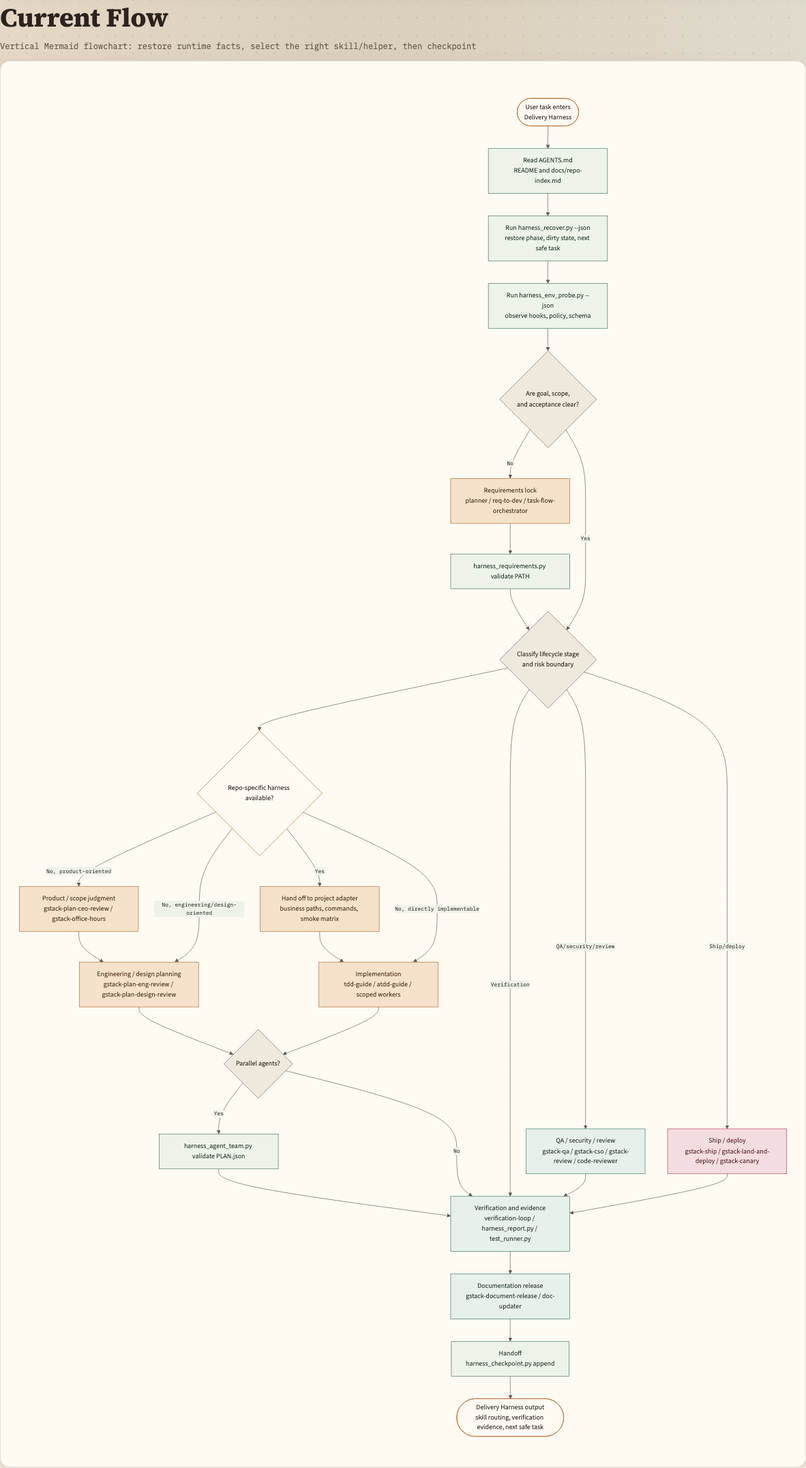
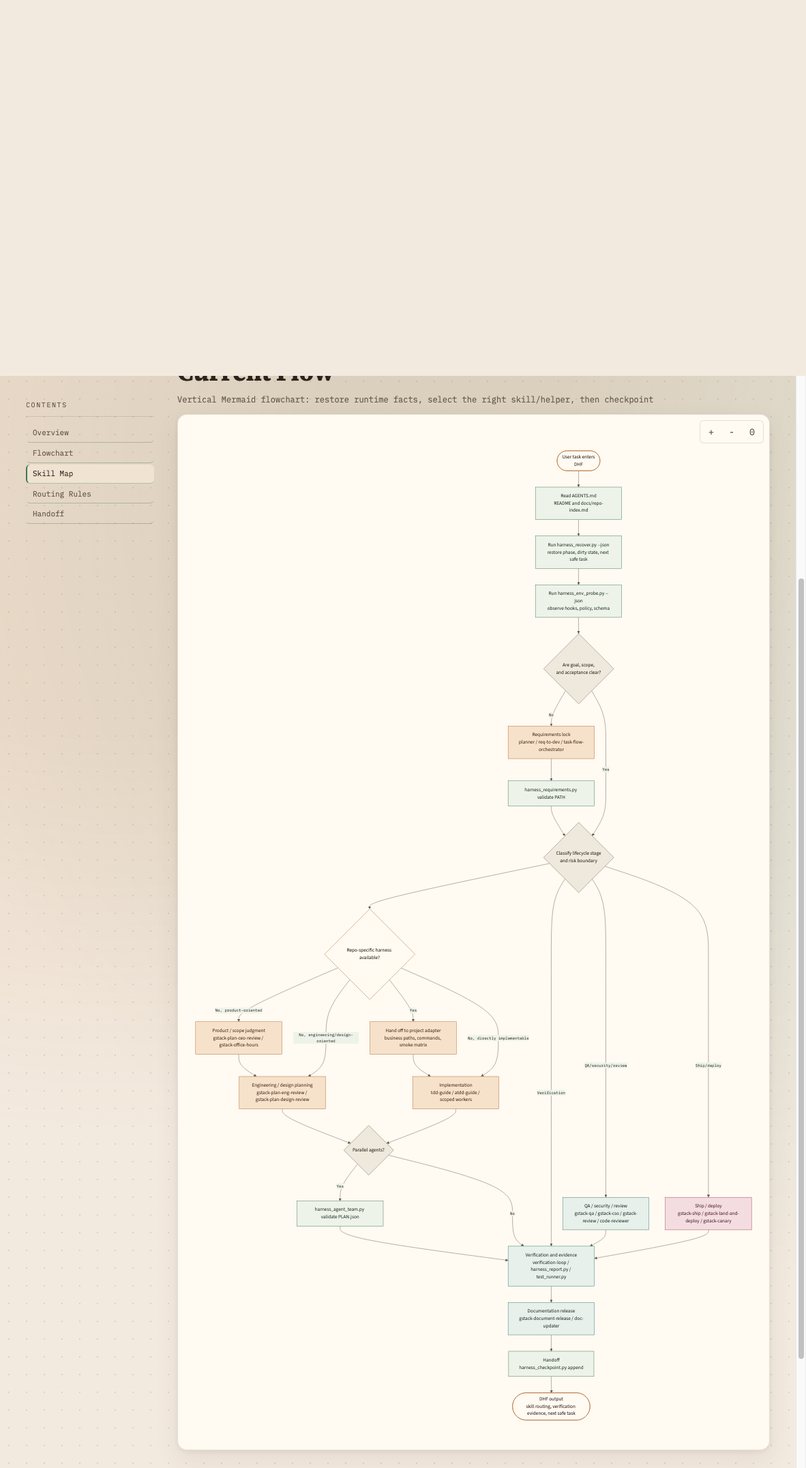
docs: rename delivery harness framework

diff --git a/docs/delivery-harness-beginner-guide-cn.html b/docs/delivery-harness-beginner-guide-cn.html
@@ -3,7 +3,7 @@
 <head>
   <meta charset="UTF-8">
   <meta name="viewport" content="width=device-width, initial-scale=1.0">
-  <title>Delivery Harness 新手指南</title>
+  <title>Delivery Harness Framework (DHF) 新手指南</title>
   <link rel="preconnect" href="https://fonts.googleapis.com">
   <link rel="preconnect" href="https://fonts.gstatic.com" crossorigin>
   <link href="https://fonts.googleapis.com/css2?family=Fraunces:opsz,wght@9..144,650;9..144,760&family=IBM+Plex+Mono:wght@400;500;600&family=Atkinson+Hyperlegible:wght@400;700&display=swap" rel="stylesheet">
@@ -511,11 +511,11 @@
 
     <main class="main">
       <section class="hero" id="what" style="--i:0">
-        <div class="eyebrow">Delivery Harness / Beginner Guide</div>
-        <h1>Delivery Harness 是 prompts 和 proof 之间的系统。</h1>
+        <div class="eyebrow">Delivery Harness Framework / DHF Beginner Guide</div>
+        <h1>Delivery Harness Framework (DHF) 是 prompts 和 proof 之间的系统。</h1>
         <p class="lead">它不是一个更聪明的 prompt，也不是单个 agent。它是一套工作框架，让 AI 工程任务先恢复事实，再锁定范围，按阶段路由执行，最后用新鲜证据证明完成。</p>
         <div class="definition">
-          一句话：<strong>Delivery Harness 把“帮我做这个”变成“已读哪些事实、当前处于哪个阶段、谁负责执行、怎样验证、下一次如何接手”。</strong>
+          一句话：<strong>DHF 把“帮我做这个”变成“已读哪些事实、当前处于哪个阶段、谁负责执行、怎样验证、下一次如何接手”。</strong>
         </div>
       </section>
 
@@ -541,7 +541,7 @@
           <article class="card verify">
             <div class="label">Problem 04</div>
             <h3>“完成”不可审计</h3>
-            <p>Delivery Harness 要求每个完成声明带上 command、exit_code、key_output、timestamp。</p>
+            <p>DHF 要求每个完成声明带上 command、exit_code、key_output、timestamp。</p>
           </article>
           <article class="card handoff">
             <div class="label">Problem 05</div>
@@ -558,7 +558,7 @@
 
       <section class="section" id="layers" style="--i:2">
         <h2>三层架构</h2>
-        <div class="section-note">这是理解 Delivery Harness 的最短路径：runtime 给边界，router 选路线，specialists 做具体工作。</div>
+        <div class="section-note">这是理解 DHF 的最短路径：runtime 给边界，router 选路线，specialists 做具体工作。</div>
         <div class="grid">
           <article class="card recover">
             <div class="label">Layer 01</div>
@@ -594,7 +594,7 @@
         <div class="steps" style="margin-top:18px">
           <div class="step">
             <div class="step-num">01</div>
-            <div><h3>如果任务不明确，不要开始实现</h3><p>先把模糊请求转成可验证目标。Delivery Harness 把“需求澄清”看作正式工程阶段，而不是聊天前奏。</p></div>
+            <div><h3>如果任务不明确，不要开始实现</h3><p>先把模糊请求转成可验证目标。DHF 把“需求澄清”看作正式工程阶段，而不是聊天前奏。</p></div>
           </div>
           <div class="step">
             <div class="step-num">02</div>
@@ -614,7 +614,7 @@
           <div class="quote">“帮我把这个功能做好，然后发出去。”</div>
           <div class="steps">
             <div class="step"><div class="step-num">A</div><div><h3>没有 Harness</h3><p>agent 可能直接改代码、猜测范围、跳过需求、最后用“看起来可以”作为完成依据。</p></div></div>
-            <div class="step"><div class="step-num">B</div><div><h3>使用 Delivery Harness</h3><p>先恢复 repo 状态，判断需求是否清晰；若不清晰，进入 requirements；若清晰，路由到 planning 或 development。</p></div></div>
+            <div class="step"><div class="step-num">B</div><div><h3>使用 DHF</h3><p>先恢复 repo 状态，判断需求是否清晰；若不清晰，进入 requirements；若清晰，路由到 planning 或 development。</p></div></div>
             <div class="step"><div class="step-num">C</div><div><h3>交付结果</h3><p>输出包含阶段判断、已读来源、执行路径、验证命令、退出码、关键输出、时间戳和下一步安全任务。</p></div></div>
           </div>
         </div>
@@ -648,13 +648,13 @@
       <section class="section" id="next" style="--i:6">
         <h2>下一步怎么读</h2>
         <div class="links">
-          <a class="link-card" href="./index.html"><b>公共入口</b><span>从这里进入全部 Delivery Harness 公开页面。</span></a>
+          <a class="link-card" href="./index.html"><b>公共入口</b><span>从这里进入全部 DHF 公开页面。</span></a>
           <a class="link-card" href="./project-lifecycle-harness-flow-cn.html"><b>生命周期主流程图</b><span>看任务从进入到交接的完整路径。</span></a>
           <a class="link-card" href="./project-lifecycle-harness-flow-skills-zh-status-style.html"><b>技能路由图</b><span>看每个阶段由哪个 skill 或 helper 接管。</span></a>
           <a class="link-card" href="./LIFECYCLE_SKILL_ROUTING.md"><b>文字规范</b><span>查 workflow、stage map、helper 和 evidence standard。</span></a>
         </div>
         <div class="footer">
-          生成来源：<code>docs/LIFECYCLE_SKILL_ROUTING.md</code>、<code>docs/HARNESS_RUNTIME.md</code>、<code>docs/AGENT_HARNESS_STATUS.md</code>。页面目标：让 agentic engineering beginner 先理解 Delivery Harness 在做什么，再进入详细流程图。
+          生成来源：<code>docs/LIFECYCLE_SKILL_ROUTING.md</code>、<code>docs/HARNESS_RUNTIME.md</code>、<code>docs/AGENT_HARNESS_STATUS.md</code>。页面目标：让 agentic engineering beginner 先理解 DHF 在做什么，再进入详细流程图。
         </div>
       </section>
     </main>

diff --git a/docs/project-lifecycle-harness-flow-skills-en-status-style.html b/docs/project-lifecycle-harness-flow-skills-en-status-style.html
@@ -3,7 +3,7 @@
 <head>
   <meta charset="UTF-8">
   <meta name="viewport" content="width=device-width, initial-scale=1.0">
-  <title>MyCodexEnv Delivery Harness Skill Routing - Runtime Status Style</title>
+  <title>MyCodexEnv Delivery Harness Framework (DHF) Skill Routing - Runtime Status Style</title>
   <link rel="preconnect" href="https://fonts.googleapis.com">
   <link rel="preconnect" href="https://fonts.gstatic.com" crossorigin>
   <link href="https://fonts.googleapis.com/css2?family=Atkinson+Hyperlegible:wght@400;700&family=Fraunces:opsz,wght@9..144,600;9..144,750&family=IBM+Plex+Mono:wght@400;500;600&display=swap" rel="stylesheet">
@@ -432,10 +432,10 @@
 
     <main class="main">
       <section class="hero" id="overview">
-        <div class="eyebrow">Delivery Harness / Current Skill Routing</div>
-        <h1>Which skill powers each Delivery Harness stage.</h1>
+        <div class="eyebrow">Delivery Harness Framework / DHF Skill Routing</div>
+        <h1>Which skill powers each DHF stage.</h1>
         <p class="lead">
-          MyCodexEnv uses <code>project-lifecycle-harness</code> as the Delivery Harness entry point. It restores runtime facts, probes the Codex environment, identifies the lifecycle stage, and routes the work to a repo-specific harness, a gstack specialist skill, local development and verification skills, or deterministic runtime helpers. Helpers provide a machine-checkable execution layer; skills provide cognitive orchestration.
+          MyCodexEnv uses <code>project-lifecycle-harness</code> as the Delivery Harness Framework (DHF) entry point. DHF restores runtime facts, probes the Codex environment, identifies the lifecycle stage, and routes the work to a repo-specific harness, a gstack specialist skill, local development and verification skills, or deterministic runtime helpers. Helpers provide a machine-checkable execution layer; skills provide cognitive orchestration.
         </p>
         <div class="kpis">
           <div class="kpi"><strong>8</strong><span>standard lifecycle stages</span></div>
@@ -457,7 +457,7 @@
           <div class="brand-watermark">ShipAI.ca</div>
           <pre class="mermaid">
 flowchart TD
-  Start(["User task enters<br/>Delivery Harness"])
+  Start(["User task enters<br/>DHF"])
   AGENTS["Read AGENTS.md<br/>README and docs/repo-index.md"]
   Recover["Run harness_recover.py --json<br/>restore phase, dirty state, next safe task"]
   Env["Run harness_env_probe.py --json<br/>observe hooks, policy, schema"]
@@ -477,7 +477,7 @@ flowchart TD
   Ship["Ship / deploy<br/>gstack-ship / gstack-land-and-deploy / gstack-canary"]
   Docs["Documentation release<br/>gstack-document-release / doc-updater"]
   Handoff["Handoff<br/>harness_checkpoint.py append"]
-  Done(["Delivery Harness output<br/>skill routing, verification evidence, next safe task"])
+  Done(["DHF output<br/>skill routing, verification evidence, next safe task"])
 
   Start --> AGENTS --> Recover --> Env --> NeedsReq
   NeedsReq -- "No" --> Req --> ReqVal --> Classify
@@ -622,7 +622,7 @@ flowchart TD
           <a href="./delivery-harness-beginner-guide-cn.html"><code>docs/delivery-harness-beginner-guide-cn.html</code></a> is the Chinese beginner guide;
           <a href="./LIFECYCLE_SKILL_ROUTING.md"><code>docs/LIFECYCLE_SKILL_ROUTING.md</code></a> is the written lifecycle and skill/helper routing guide;
           <a href="./project-lifecycle-harness-flow-cn.html"><code>docs/project-lifecycle-harness-flow-cn.html</code></a> is the vertical main flowchart;
-          <a href="./project-lifecycle-harness-flow-skills-zh-status-style.html"><code>docs/project-lifecycle-harness-flow-skills-zh-status-style.html</code></a> is the current Chinese Delivery Harness skill/helper routing guide;
+          <a href="./project-lifecycle-harness-flow-skills-zh-status-style.html"><code>docs/project-lifecycle-harness-flow-skills-zh-status-style.html</code></a> is the current Chinese Delivery Harness Framework skill/helper routing guide;
           <a href="./HARNESS_RUNTIME.md"><code>docs/HARNESS_RUNTIME.md</code></a> is the runtime contract;
           <a href="./AGENT_HARNESS_STATUS.md"><code>docs/AGENT_HARNESS_STATUS.md</code></a> is the Harness module status;
           <a href="./CODEX_ENV_REPRODUCTION.md"><code>docs/CODEX_ENV_REPRODUCTION.md</code></a> documents environment reproduction;

diff --git a/docs/project-lifecycle-harness-flow-skills-en.html b/docs/project-lifecycle-harness-flow-skills-en.html
@@ -3,7 +3,7 @@
 <head>
   <meta charset="UTF-8">
   <meta name="viewport" content="width=device-width, initial-scale=1.0">
-  <title>MyCodexEnv Delivery Harness Skill Routing</title>
+  <title>MyCodexEnv Delivery Harness Framework (DHF) Skill Routing</title>
   <link rel="preconnect" href="https://fonts.googleapis.com">
   <link rel="preconnect" href="https://fonts.gstatic.com" crossorigin>
   <link href="https://fonts.googleapis.com/css2?family=IBM+Plex+Mono:wght@400;500;600&family=Source+Sans+3:wght@400;500;600;700&family=Source+Serif+4:wght@500;600;700&display=swap" rel="stylesheet">
@@ -410,10 +410,10 @@
 
     <main class="main">
       <section class="hero" id="overview">
-        <div class="eyebrow">Delivery Harness / Current Skill Routing</div>
-        <h1>Which skill powers each Delivery Harness stage.</h1>
+        <div class="eyebrow">Delivery Harness Framework / DHF Skill Routing</div>
+        <h1>Which skill powers each DHF stage.</h1>
         <p class="lead">
-          MyCodexEnv uses <code>project-lifecycle-harness</code> as the Delivery Harness entry point. It restores runtime facts, probes the Codex environment, identifies the lifecycle stage, and routes the work to a repo-specific harness, a gstack specialist skill, local development and verification skills, or deterministic runtime helpers. Helpers provide a machine-checkable execution layer; skills provide cognitive orchestration.
+          MyCodexEnv uses <code>project-lifecycle-harness</code> as the Delivery Harness Framework (DHF) entry point. DHF restores runtime facts, probes the Codex environment, identifies the lifecycle stage, and routes the work to a repo-specific harness, a gstack specialist skill, local development and verification skills, or deterministic runtime helpers. Helpers provide a machine-checkable execution layer; skills provide cognitive orchestration.
         </p>
         <div class="kpis">
           <div class="kpi"><strong>8</strong><span>standard lifecycle stages</span></div>
@@ -434,7 +434,7 @@
           </div>
           <pre class="mermaid">
 flowchart TD
-  Start(["User task enters<br/>Delivery Harness"])
+  Start(["User task enters<br/>DHF"])
   AGENTS["Read AGENTS.md<br/>README and docs/repo-index.md"]
   Recover["Run harness_recover.py --json<br/>restore phase, dirty state, next safe task"]
   Env["Run harness_env_probe.py --json<br/>observe hooks, policy, schema"]
@@ -454,7 +454,7 @@ flowchart TD
   Ship["Ship / deploy<br/>gstack-ship / gstack-land-and-deploy / gstack-canary"]
   Docs["Documentation release<br/>gstack-document-release / doc-updater"]
   Handoff["Handoff<br/>harness_checkpoint.py append"]
-  Done(["Delivery Harness output<br/>skill routing, verification evidence, next safe task"])
+  Done(["DHF output<br/>skill routing, verification evidence, next safe task"])
 
   Start --> AGENTS --> Recover --> Env --> NeedsReq
   NeedsReq -- "No" --> Req --> ReqVal --> Classify
@@ -599,7 +599,7 @@ flowchart TD
           <a href="./delivery-harness-beginner-guide-cn.html"><code>docs/delivery-harness-beginner-guide-cn.html</code></a> is the Chinese beginner guide;
           <a href="./LIFECYCLE_SKILL_ROUTING.md"><code>docs/LIFECYCLE_SKILL_ROUTING.md</code></a> is the written lifecycle and skill/helper routing guide;
           <a href="./project-lifecycle-harness-flow-cn.html"><code>docs/project-lifecycle-harness-flow-cn.html</code></a> is the vertical main flowchart;
-          <a href="./project-lifecycle-harness-flow-skills-zh-status-style.html"><code>docs/project-lifecycle-harness-flow-skills-zh-status-style.html</code></a> is the current Chinese Delivery Harness skill/helper routing guide;
+          <a href="./project-lifecycle-harness-flow-skills-zh-status-style.html"><code>docs/project-lifecycle-harness-flow-skills-zh-status-style.html</code></a> is the current Chinese Delivery Harness Framework skill/helper routing guide;
           <a href="./HARNESS_RUNTIME.md"><code>docs/HARNESS_RUNTIME.md</code></a> is the runtime contract;
           <a href="./AGENT_HARNESS_STATUS.md"><code>docs/AGENT_HARNESS_STATUS.md</code></a> is the Harness module status;
           <a href="./CODEX_ENV_REPRODUCTION.md"><code>docs/CODEX_ENV_REPRODUCTION.md</code></a> documents environment reproduction;

diff --git a/docs/project-lifecycle-harness-flow-skills-zh-status-style.html b/docs/project-lifecycle-harness-flow-skills-zh-status-style.html
@@ -3,7 +3,7 @@
 <head>
   <meta charset="UTF-8">
   <meta name="viewport" content="width=device-width, initial-scale=1.0">
-  <title>MyCodexEnv Delivery Harness 技能路由 - 运行时状态风格</title>
+  <title>MyCodexEnv Delivery Harness Framework (DHF) 技能路由 - 运行时状态风格</title>
   <link rel="preconnect" href="https://fonts.googleapis.com">
   <link rel="preconnect" href="https://fonts.gstatic.com" crossorigin>
   <link href="https://fonts.googleapis.com/css2?family=Atkinson+Hyperlegible:wght@400;700&family=Fraunces:opsz,wght@9..144,600;9..144,750&family=IBM+Plex+Mono:wght@400;500;600&display=swap" rel="stylesheet">
@@ -432,10 +432,10 @@
 
     <main class="main">
       <section class="hero" id="overview">
-        <div class="eyebrow">Delivery Harness / 当前技能路由</div>
-        <h1>每个 Delivery Harness 阶段由哪个技能驱动。</h1>
+        <div class="eyebrow">Delivery Harness Framework / DHF 当前技能路由</div>
+        <h1>每个 DHF 阶段由哪个技能驱动。</h1>
         <p class="lead">
-          MyCodexEnv 使用 <code>project-lifecycle-harness</code> 作为 Delivery Harness 的入口。它先恢复运行时事实，探测 Codex 环境，识别当前生命周期阶段，再把任务路由到仓库专用 harness、gstack 专家技能、本地开发与验证技能，或确定性的运行时辅助脚本。辅助脚本提供机器可检查的执行层；技能负责认知编排。
+          MyCodexEnv 使用 <code>project-lifecycle-harness</code> 作为 Delivery Harness Framework (DHF) 的入口。DHF 先恢复运行时事实，探测 Codex 环境，识别当前生命周期阶段，再把任务路由到仓库专用 harness、gstack 专家技能、本地开发与验证技能，或确定性的运行时辅助脚本。辅助脚本提供机器可检查的执行层；技能负责认知编排。
         </p>
         <div class="kpis">
           <div class="kpi"><strong>8</strong><span>标准生命周期阶段</span></div>
@@ -457,7 +457,7 @@
           <div class="brand-watermark">ShipAI.ca</div>
           <pre class="mermaid">
 flowchart TD
-  Start(["用户任务进入<br/>Delivery Harness"])
+  Start(["用户任务进入<br/>DHF"])
   AGENTS["读取 AGENTS.md<br/>README 和 docs/repo-index.md"]
   Recover["运行 harness_recover.py --json<br/>恢复阶段、脏状态、下一个安全任务"]
   Env["运行 harness_env_probe.py --json<br/>观察 hooks、策略、schema"]
@@ -477,7 +477,7 @@ flowchart TD
   Ship["发布 / 部署<br/>gstack-ship / gstack-land-and-deploy / gstack-canary"]
   Docs["文档发布<br/>gstack-document-release / doc-updater"]
   Handoff["交接<br/>harness_checkpoint.py append"]
-  Done(["Delivery Harness 输出<br/>技能路由、验证证据、下一个安全任务"])
+  Done(["DHF 输出<br/>技能路由、验证证据、下一个安全任务"])
 
   Start --> AGENTS --> Recover --> Env --> NeedsReq
   NeedsReq -- "否" --> Req --> ReqVal --> Classify

diff --git a/docs/index.html b/docs/index.html
@@ -3,7 +3,7 @@
 <head>
   <meta charset="UTF-8">
   <meta name="viewport" content="width=device-width, initial-scale=1.0">
-  <title>Delivery Harness 公共说明入口</title>
+  <title>Delivery Harness Framework (DHF) 公共说明入口</title>
   <link rel="preconnect" href="https://fonts.googleapis.com">
   <link rel="preconnect" href="https://fonts.gstatic.com" crossorigin>
   <link href="https://fonts.googleapis.com/css2?family=Fraunces:opsz,wght@9..144,650;9..144,760&family=IBM+Plex+Mono:wght@400;500;600&family=Atkinson+Hyperlegible:wght@400;700&display=swap" rel="stylesheet">
@@ -224,9 +224,9 @@
 <body>
   <main class="wrap">
     <section class="hero" style="--i:0">
-      <div class="eyebrow">Delivery Harness / Public Guide</div>
+      <div class="eyebrow">Delivery Harness Framework / DHF Public Guide</div>
       <h1>从模糊请求到可验证交付。</h1>
-      <p class="lead">这组页面解释 Delivery Harness 如何把 agentic engineering 的工作组织成事实恢复、需求锁定、路由执行、验证证据和可恢复交接。</p>
+      <p class="lead">这组页面解释 Delivery Harness Framework (DHF) 如何把 agentic engineering 的工作组织成事实恢复、需求锁定、路由执行、验证证据和可恢复交接。</p>
     </section>
 
     <nav class="strip" aria-label="快速入口" style="--i:1">
@@ -242,7 +242,7 @@
         <div>
           <div class="label">Start Here</div>
           <h2>新手先读</h2>
-          <p>用一句话定义、三层架构、五步流程、术语表和一个具体例子解释 Delivery Harness 在做什么。</p>
+          <p>用一句话定义、三层架构、五步流程、术语表和一个具体例子解释 DHF 在做什么。</p>
         </div>
         <div class="meta">适合 agentic engineering beginner</div>
       </a>
@@ -260,7 +260,7 @@
         <div>
           <div class="label">Routing</div>
           <h2>技能地图</h2>
-          <p>解释每个 Delivery Harness 阶段应由哪个 skill 或 helper 接管，以及什么时候触发。</p>
+          <p>解释每个 DHF 阶段应由哪个 skill 或 helper 接管，以及什么时候触发。</p>
         </div>
         <div class="meta">看懂 agent 如何选工具</div>
       </a>
@@ -269,7 +269,7 @@
         <div>
           <div class="label">English</div>
           <h2>英文版流程</h2>
-          <p>适合对外分享、LinkedIn 文章和英文团队协作的 Delivery Harness flow map。</p>
+          <p>适合对外分享、LinkedIn 文章和英文团队协作的 DHF flow map。</p>
         </div>
         <div class="meta">public-facing version</div>
       </a>

diff --git a/docs/project-lifecycle-harness-flow-skills.html b/docs/project-lifecycle-harness-flow-skills.html
@@ -603,7 +603,7 @@ flowchart TD
           <a href="./delivery-harness-beginner-guide-cn.html"><code>docs/delivery-harness-beginner-guide-cn.html</code></a> 是 beginner 中文入门指南；
           <a href="./LIFECYCLE_SKILL_ROUTING.md"><code>docs/LIFECYCLE_SKILL_ROUTING.md</code></a> 是生命周期和 skill/helper 路由的文字说明；
           <a href="./project-lifecycle-harness-flow-cn.html"><code>docs/project-lifecycle-harness-flow-cn.html</code></a> 是纵向主流程图；
-          <a href="./project-lifecycle-harness-flow-skills-zh-status-style.html"><code>docs/project-lifecycle-harness-flow-skills-zh-status-style.html</code></a> 是新版 Delivery Harness 技能路由图；
+          <a href="./project-lifecycle-harness-flow-skills-zh-status-style.html"><code>docs/project-lifecycle-harness-flow-skills-zh-status-style.html</code></a> 是新版 Delivery Harness Framework 技能路由图；
           <a href="./HARNESS_RUNTIME.md"><code>docs/HARNESS_RUNTIME.md</code></a> 是运行时合同；
           <a href="./AGENT_HARNESS_STATUS.md"><code>docs/AGENT_HARNESS_STATUS.md</code></a> 是 Harness 模块状态；
           <a href="./CODEX_ENV_REPRODUCTION.md"><code>docs/CODEX_ENV_REPRODUCTION.md</code></a> 是环境复现说明；

diff --git a/docs/project-lifecycle-harness-flow-cn.html b/docs/project-lifecycle-harness-flow-cn.html
@@ -739,10 +739,10 @@ flowchart TD
         <div class="panel">
           <h3>相关文档</h3>
           <ul class="check-list">
-            <li><a href="./index.html">Delivery Harness 公共页面入口</a></li>
+            <li><a href="./index.html">Delivery Harness Framework 公共页面入口</a></li>
             <li><a href="./delivery-harness-beginner-guide-cn.html">Beginner 中文入门指南</a></li>
             <li><a href="./LIFECYCLE_SKILL_ROUTING.md">生命周期与 skill/helper 路由文字说明</a></li>
-            <li><a href="./project-lifecycle-harness-flow-skills-zh-status-style.html">新版 Delivery Harness 技能路由可视化速查页</a></li>
+            <li><a href="./project-lifecycle-harness-flow-skills-zh-status-style.html">新版 Delivery Harness Framework 技能路由可视化速查页</a></li>
             <li><a href="./project-lifecycle-harness-flow-skills.html">旧版按阶段选择 skill 的可视化速查页</a></li>
             <li><a href="./HARNESS_RUNTIME.md">Harness Runtime 合同</a></li>
             <li><a href="./AGENT_HARNESS_STATUS.md">Agent Harness 状态图谱</a></li>

diff --git a/docs/repo-index.md b/docs/repo-index.md
@@ -11,11 +11,11 @@
 - `docs/harness-state.md`: append-only harness runtime state and latest safe task.
 - `docs/HARNESS_RUNTIME.md`: design contract for workflow, infra, state, policy, evidence, hooks, checkpoints, and agent teams.
 - `docs/LIFECYCLE_SKILL_ROUTING.md`: Chinese lifecycle-to-skill routing map for current project workflows.
-- `docs/index.html`: public Delivery Harness docs landing page for GitHub Pages.
+- `docs/index.html`: public Delivery Harness Framework docs landing page for GitHub Pages.
 - `docs/delivery-harness-beginner-guide-cn.html`: Chinese beginner guide for agentic engineering readers.
 - `docs/project-lifecycle-harness-flow-cn.html`: Chinese vertical lifecycle flow visual guide.
 - `docs/project-lifecycle-harness-flow-skills.html`: Chinese skill/helper routing visual guide.
-- `docs/project-lifecycle-harness-flow-skills-zh-status-style.html`: current styled Chinese Delivery Harness skill/helper routing guide.
+- `docs/project-lifecycle-harness-flow-skills-zh-status-style.html`: current styled Chinese Delivery Harness Framework skill/helper routing guide.
 - `codex/AGENTS.md`: global Codex rules source copied into `~/.codex/AGENTS.md`.
 
 ## Runtime Surfaces
@@ -34,7 +34,7 @@
 - `scripts/verify_codex_env.sh`: runtime sync and environment verification.
 - `docs/LIFECYCLE_SKILL_ROUTING.md`: stage, workflow, skill, and helper usage guide.
 - `docs/index.html`: public docs landing page.
-- `docs/delivery-harness-beginner-guide-cn.html`: beginner-oriented Delivery Harness explanation.
+- `docs/delivery-harness-beginner-guide-cn.html`: beginner-oriented Delivery Harness Framework explanation.
 - `docs/project-lifecycle-harness-flow-cn.html`: visual vertical lifecycle flow.
 - `docs/project-lifecycle-harness-flow-skills.html`: visual skill/helper routing map.
 - `docs/project-lifecycle-harness-flow-skills-zh-status-style.html`: current status-style skill/helper routing map.
@@ -45,11 +45,11 @@
 - `docs/AGENT_HARNESS_STATUS.md`: Agent Harness workflow/infra status map.
 - `docs/CODEX_ENV_REPRODUCTION.md`: Codex + Claude environment reproduction guide.
 - `docs/LIFECYCLE_SKILL_ROUTING.md`: lifecycle stage, workflow, skill, and helper routing.
-- `docs/index.html`: GitHub Pages public entry for Delivery Harness guides.
-- `docs/delivery-harness-beginner-guide-cn.html`: beginner guide explaining what Delivery Harness does.
+- `docs/index.html`: GitHub Pages public entry for Delivery Harness Framework guides.
+- `docs/delivery-harness-beginner-guide-cn.html`: beginner guide explaining what Delivery Harness Framework does.
 - `docs/project-lifecycle-harness-flow-cn.html`: Chinese vertical lifecycle flow.
 - `docs/project-lifecycle-harness-flow-skills.html`: Chinese lifecycle skill/helper routing visual guide.
-- `docs/project-lifecycle-harness-flow-skills-zh-status-style.html`: current styled Chinese Delivery Harness visual guide.
+- `docs/project-lifecycle-harness-flow-skills-zh-status-style.html`: current styled Chinese Delivery Harness Framework visual guide.
 
 ## Verification
 - Primary: `python3 test_runner.py`.

diff --git a/docs/LIFECYCLE_SKILL_ROUTING.md b/docs/LIFECYCLE_SKILL_ROUTING.md
@@ -21,18 +21,18 @@ adapter skills.
 
 ## Visual Guides
 
-- `docs/index.html`: Delivery Harness public landing page for GitHub Pages.
-- `docs/delivery-harness-beginner-guide-cn.html`: 中文 beginner guide，用一句话定义、三层架构、五步流程、例子和术语表解释 Delivery Harness。
+- `docs/index.html`: Delivery Harness Framework public landing page for GitHub Pages.
+- `docs/delivery-harness-beginner-guide-cn.html`: 中文 beginner guide，用一句话定义、三层架构、五步流程、例子和术语表解释 Delivery Harness Framework。
 - `docs/project-lifecycle-harness-flow-cn.html`: 中文纵向主流程图，帮助用户从入口、状态恢复、阶段分类一路看到验证、发布和交接。
 - `docs/project-lifecycle-harness-flow-skills.html`: 中文 skill/helper 路由速查页，帮助用户理解每个生命周期阶段应使用哪个 skill，以及 helper 的执行职责。
-- `docs/project-lifecycle-harness-flow-skills-zh-status-style.html`: 新版中文 Delivery Harness skill/helper 路由图，使用和 LinkedIn 素材一致的状态风格。
-- `docs/project-lifecycle-harness-flow-skills-en-status-style.html`: English status-style Delivery Harness flow map for public sharing.
+- `docs/project-lifecycle-harness-flow-skills-zh-status-style.html`: 新版中文 Delivery Harness Framework skill/helper 路由图，使用和 LinkedIn 素材一致的状态风格。
+- `docs/project-lifecycle-harness-flow-skills-en-status-style.html`: English status-style Delivery Harness Framework flow map for public sharing.
 
 ## Related Documentation
 
 - `README.md`: top-level quick start and Harness Runtime overview.
 - `docs/repo-index.md`: low-token repo navigation and runtime surface index.
-- `docs/index.html`: public Delivery Harness docs entry.
+- `docs/index.html`: public Delivery Harness Framework docs entry.
 - `docs/delivery-harness-beginner-guide-cn.html`: beginner-oriented Chinese explanation.
 - `docs/HARNESS_RUNTIME.md`: lifecycle, evidence, checkpoint, permission, and subagent contracts.
 - `docs/AGENT_HARNESS_STATUS.md`: Agent Harness workflow/infra status map.

diff --git a/docs/HARNESS_RUNTIME.md b/docs/HARNESS_RUNTIME.md
@@ -34,13 +34,13 @@ For the current project workflow and skill routing map, read
 - `README.md`: top-level quick start and Harness Runtime overview.
 - `docs/repo-index.md`: low-token repo navigation and runtime surface index.
 - `docs/LIFECYCLE_SKILL_ROUTING.md`: lifecycle stage, workflow, skill, and helper routing.
-- `docs/index.html`: public Delivery Harness docs entry for GitHub Pages.
-- `docs/delivery-harness-beginner-guide-cn.html`: beginner-oriented Chinese explanation of what Delivery Harness does.
+- `docs/index.html`: public Delivery Harness Framework docs entry for GitHub Pages.
+- `docs/delivery-harness-beginner-guide-cn.html`: beginner-oriented Chinese explanation of what Delivery Harness Framework does.
 - `docs/AGENT_HARNESS_STATUS.md`: Agent Harness workflow/infra status map.
 - `docs/CODEX_ENV_REPRODUCTION.md`: Codex + Claude environment reproduction guide.
 - `docs/project-lifecycle-harness-flow-cn.html`: Chinese vertical lifecycle flow.
 - `docs/project-lifecycle-harness-flow-skills.html`: Chinese lifecycle skill/helper routing visual guide.
-- `docs/project-lifecycle-harness-flow-skills-zh-status-style.html`: current styled Chinese Delivery Harness skill/helper routing visual guide.
+- `docs/project-lifecycle-harness-flow-skills-zh-status-style.html`: current styled Chinese Delivery Harness Framework skill/helper routing visual guide.
 
 ## Infra Contract
 - `Sandbox`: Codex sandboxing and approval rules remain the primary technical boundary; `scripts/harness_env_probe.py` reports the observable runtime configuration.

diff --git a/docs/AGENT_HARNESS_STATUS.md b/docs/AGENT_HARNESS_STATUS.md
@@ -8,12 +8,12 @@ orchestration, Infra is runtime governance.
 - `docs/repo-index.md`: low-token repo navigation and runtime surface index.
 - `docs/HARNESS_RUNTIME.md`: lifecycle, evidence, checkpoint, permission, and subagent contracts.
 - `docs/LIFECYCLE_SKILL_ROUTING.md`: lifecycle stage, workflow, skill, and helper routing.
-- `docs/index.html`: public Delivery Harness docs entry for GitHub Pages.
-- `docs/delivery-harness-beginner-guide-cn.html`: beginner-oriented Chinese Delivery Harness guide.
+- `docs/index.html`: public Delivery Harness Framework docs entry for GitHub Pages.
+- `docs/delivery-harness-beginner-guide-cn.html`: beginner-oriented Chinese Delivery Harness Framework guide.
 - `docs/CODEX_ENV_REPRODUCTION.md`: Codex + Claude environment reproduction guide.
 - `docs/project-lifecycle-harness-flow-cn.html`: Chinese vertical lifecycle flow.
 - `docs/project-lifecycle-harness-flow-skills.html`: Chinese lifecycle skill/helper routing visual guide.
-- `docs/project-lifecycle-harness-flow-skills-zh-status-style.html`: current styled Chinese Delivery Harness skill/helper routing visual guide.
+- `docs/project-lifecycle-harness-flow-skills-zh-status-style.html`: current styled Chinese Delivery Harness Framework skill/helper routing visual guide.
 
 | Diagram Module | Current Status | Implemented Evidence | Remaining Gap | Next Step |
 | --- | --- | --- | --- | --- |

diff --git a/README.md b/README.md
@@ -68,7 +68,7 @@ cd MyCodexEnv
 相关文档互链入口：
 
 - `docs/repo-index.md`：低 token 项目导航与 runtime surface 索引
-- `docs/index.html`：Delivery Harness 公共页面入口
+- `docs/index.html`：Delivery Harness Framework (DHF) 公共页面入口
 - `docs/delivery-harness-beginner-guide-cn.html`：面向 agentic engineering beginner 的中文入门指南
 - `docs/HARNESS_RUNTIME.md`：生命周期、证据、checkpoint、权限和 subagent 合同
 - `docs/AGENT_HARNESS_STATUS.md`：Agent Harness workflow/infra 状态图谱
@@ -76,7 +76,7 @@ cd MyCodexEnv
 - `docs/LIFECYCLE_SKILL_ROUTING.md`：生命周期阶段、workflow、skill 和 helper 路由
 - `docs/project-lifecycle-harness-flow-cn.html`：中文纵向生命周期流程图
 - `docs/project-lifecycle-harness-flow-skills.html`：中文 skill/helper 路由可视化速查页
-- `docs/project-lifecycle-harness-flow-skills-zh-status-style.html`：新版 Delivery Harness 技能路由可视化速查页
+- `docs/project-lifecycle-harness-flow-skills-zh-status-style.html`：新版 DHF 技能路由可视化速查页
 
 早期已适配的短名 gstack skills 仍保留：
 
